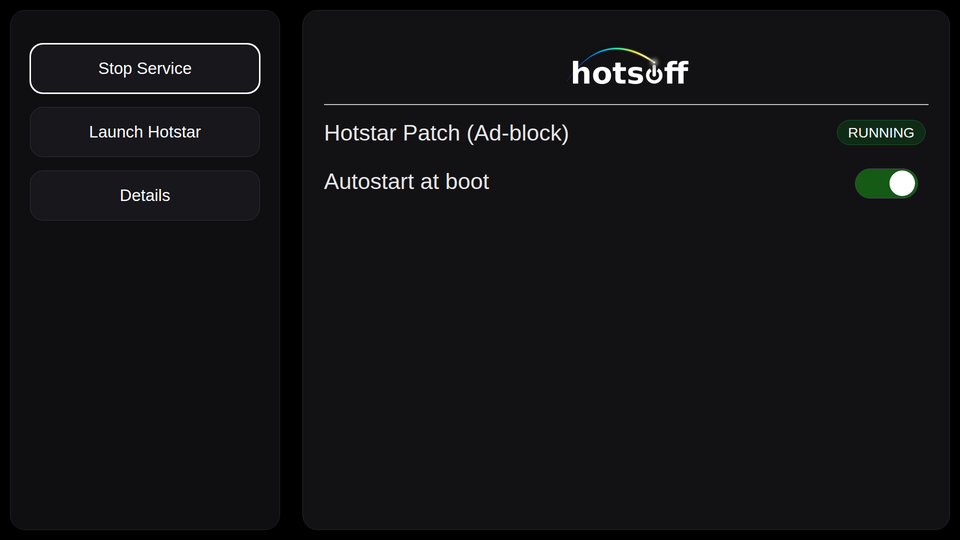
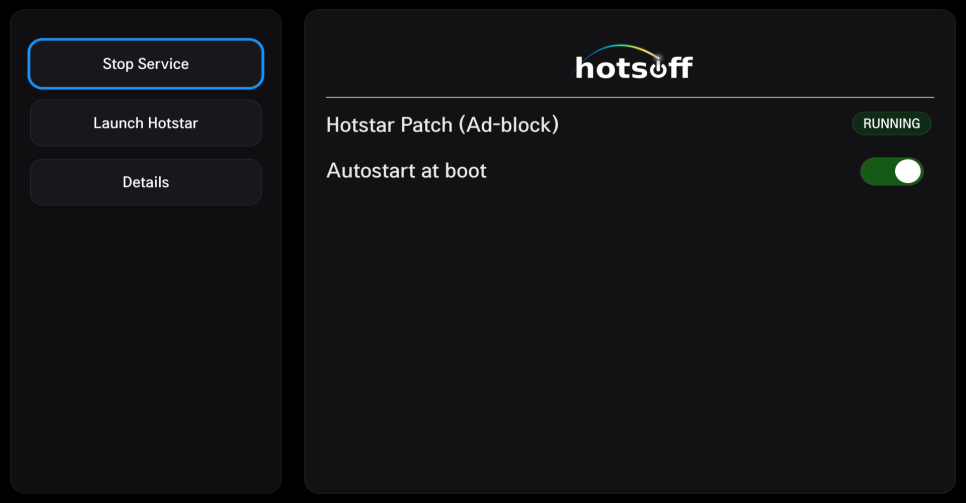
0.2.1: TV screenshot, Homebrew Channel manifest
- Real TV screenshot in README
- CI writes com.hotsoff.patcher.manifest.json and attaches it to releases

diff --git a/development/makeManifest.js b/development/makeManifest.js
@@ -1,0 +1,33 @@
+#!/usr/bin/env node
+// Writes the Homebrew Channel manifest for a built IPK.
+// Usage: node development/makeManifest.js <path/to/ipk> [outdir]
+const fs = require('fs');
+const path = require('path');
+const crypto = require('crypto');
+
+const root = path.join(__dirname, '..');
+const ipk = process.argv[2];
+if (!ipk) {
+  console.error('usage: makeManifest.js <ipk> [outdir]');
+  process.exit(2);
+}
+const outDir = process.argv[3] || path.dirname(ipk);
+const app = JSON.parse(fs.readFileSync(path.join(root, 'appinfo.json'), 'utf8'));
+const repo = 'https://github.com/Shantil-K/HotsOff';
+
+const manifest = {
+  id: app.id,
+  version: app.version,
+  type: app.type,
+  title: app.title,
+  appDescription: 'Hotstar ad-block patcher',
+  iconUri: 'https://raw.githubusercontent.com/Shantil-K/HotsOff/main/hotsoffLarge.png',
+  sourceUrl: repo,
+  rootRequired: true,
+  ipkUrl: path.basename(ipk),
+  ipkHash: { sha256: crypto.createHash('sha256').update(fs.readFileSync(ipk)).digest('hex') }
+};
+
+const out = path.join(outDir, app.id + '.manifest.json');
+fs.writeFileSync(out, JSON.stringify(manifest, null, 2) + '\n');
+console.log('wrote ' + out);
